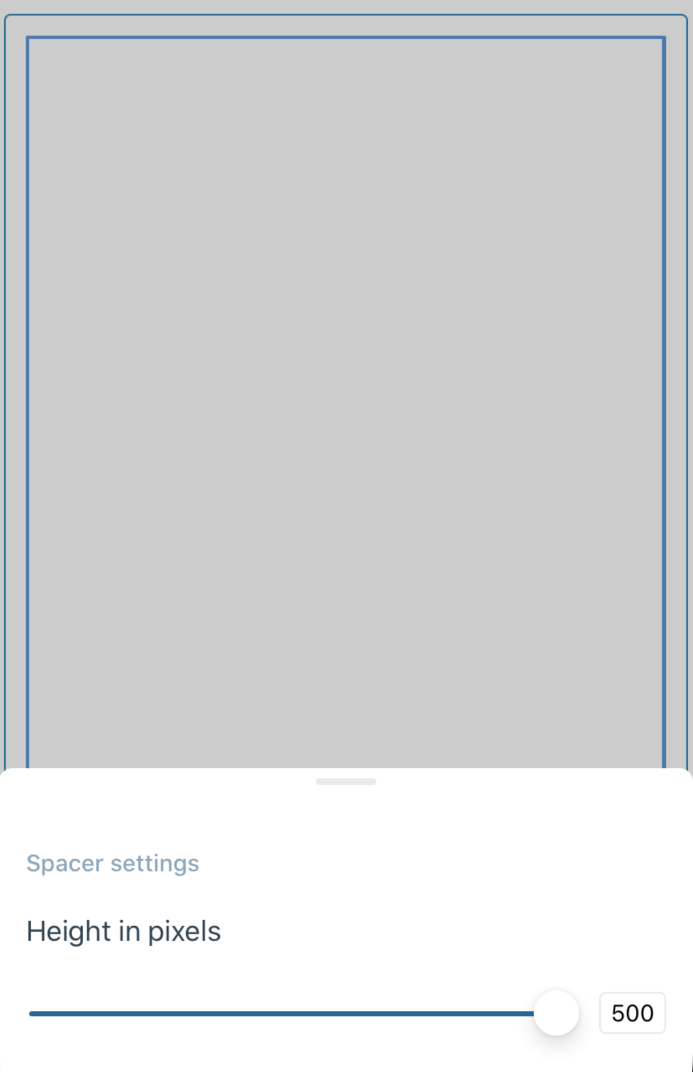
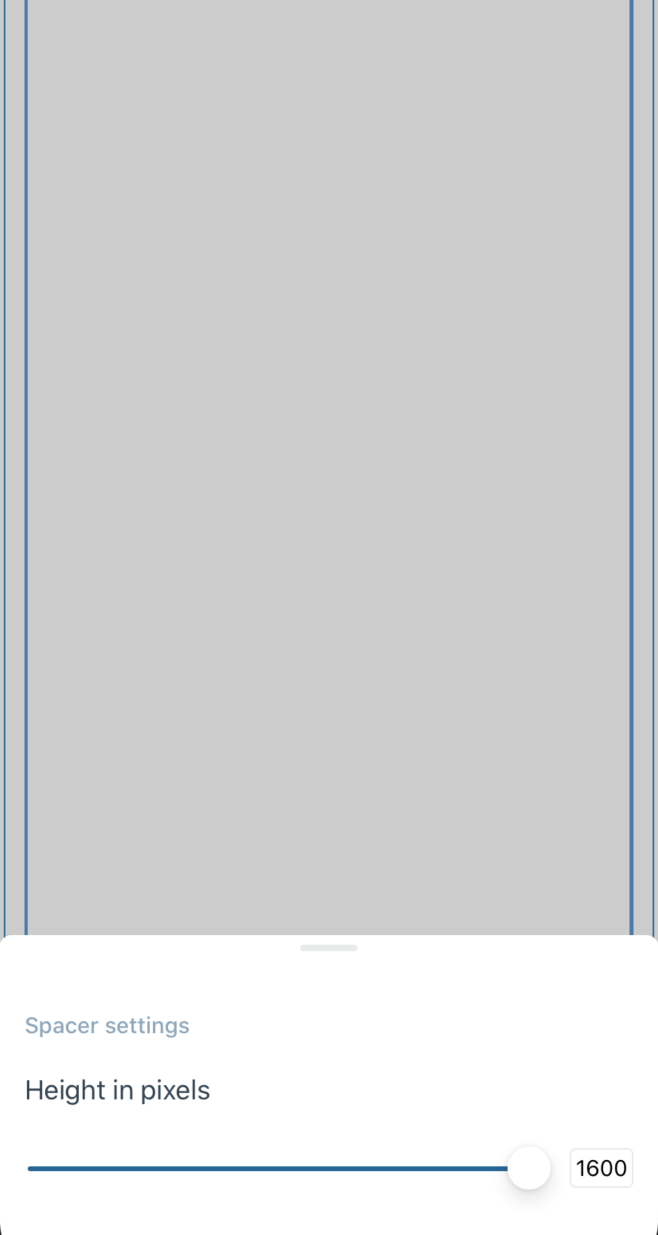
update image and description for spacer if height is overflow

diff --git a/test-cases/gutenberg/spacer.md b/test-cases/gutenberg/spacer.md
@@ -76,15 +76,16 @@ Expected look:
 ### Settings: Height range extends if Spacer comes from the web is higher than 500px
 
 -   Add a `Spacer` block via web version
--   Set `Spacer` height to more than `500px`
+-   Set `Spacer` height to more than `500px` (in given example `800px`)
 -   Save the post
 -   Open mobile app
 -   Check if `Spacer` block is rendered with set height
 -   Check if slider value in options is in the middle of available range
--   The max value should be double as set on web
+-   The max value should be double as set on web (in given example `1600px`)
 -   The min value should equal to `20px`
 
 Expected look:  
+![SpacerExceedHeightMid](../resources/spacer-exceed-height-mid.png)
 ![SpacerExceedHeight](../resources/spacer-exceed-height.png)
 
 --------------------------------------------------------------------------------
